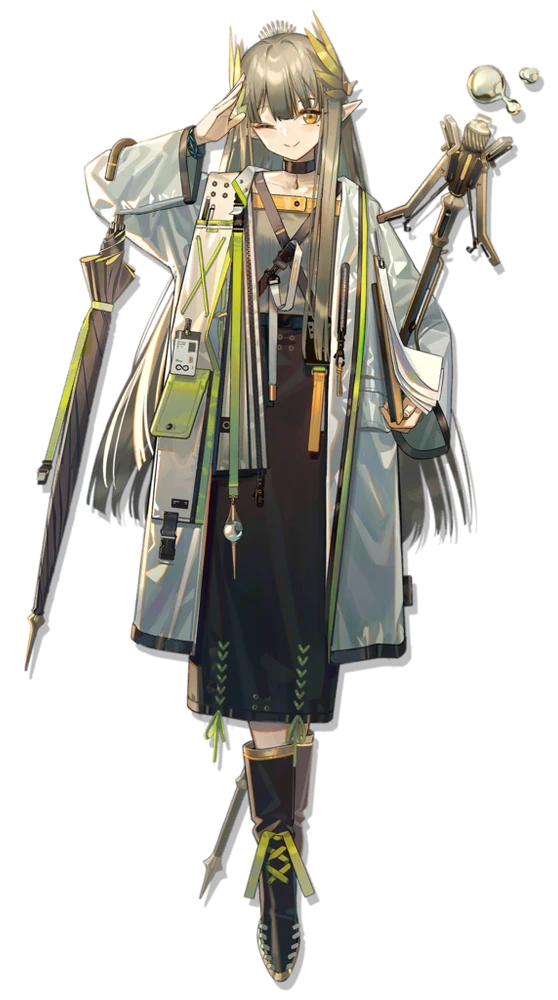
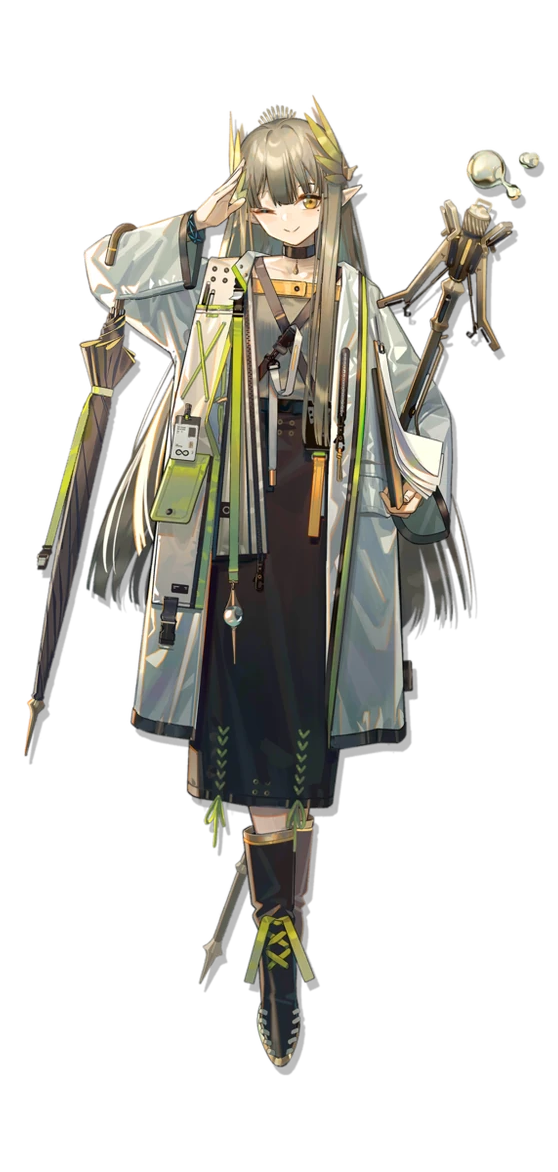
添加精英二立绘、背景图片。

Changed region(s): [[0.0305, 0.0, 0.9749, 0.992]]

diff --git a/src/pages/Home.vue b/src/pages/Home.vue
@@ -1,15 +1,44 @@
+<script>
+export default {
+    data() {
+        return {
+            elite1: true,
+        }
+    },
+    mounted() {
+        document.body.classList.add('body-no-margin')
+    },
+    unmounted() {
+        document.body.classList.remove('body-no-margin')
+    }
+}
+</script>
+
 <template>
+    <img class="background-img" src="/src/assets/bg/Bg_rhine.png">
     <div class="pic-container">
-        <img class="muelsyse-pic" src="../assets/muelsyse.png" draggable="false" alt="这是缪尔赛思。她很可爱，请给她钱。"
-            title="这是缪尔赛思。她很可爱，请给她钱。" @click="this.$router.push('/tools')">
+        <img class="muelsyse-pic" :class="{'elite1-pic': this.elite1}" :src="this.elite1 ? '/src/assets/muelsyse.png' : '/src/assets/muelsyse_2.png'"
+            draggable="false" alt="这是缪尔赛思。她很可爱，请给她钱。" title="这是缪尔赛思。她很可爱，请给她钱。" @click="this.$router.push('/tools')">
+    </div>
+    <div class="elite-switch-buttons">
+        <button @click="this.elite1 = true" :class="{ selected: this.elite1 }">精英零</button>
+        <button @click="this.elite1 = false" :class="{ selected: !this.elite1 }">精英二</button>
     </div>
 </template>
 
 <style scoped>
-.muelsyse-pic {
-    max-height: 90vh;
-    max-width: 90vw;
-    transition-duration: 0.5s;
+/* .bg-container {
+    position: absolute;
+    z-index: -1;
+    height: 100vh;
+    width: 100vw;
+} */
+.background-img {
+    position: absolute;
+    z-index: -1;
+    height: 100vh;
+    width: 100vw;
+    object-fit: cover;
 }
 
 .pic-container {
@@ -18,14 +47,48 @@
     align-items: center;
     height: 100vh;
     user-select: none;
+    overflow: hidden;
+}
+
+.muelsyse-pic {
+    max-height: 100vh;
+    max-width: 100vw;
+    transition-duration: 0.5s;
 }
 
 .muelsyse-pic:hover {
-    transform: scale(1.1);
+    --translate-distance: 0;
+    transform: scale(1.2) translateY(var(--translate-distance));
     cursor: pointer;
 }
 
-body {
-    margin: 0;
+.muelsyse-pic.elite1-pic:hover {
+    --translate-distance: 5vh;
+}
+
+.elite-switch-buttons {
+    position: absolute;
+    left: 0;
+    top: 0;
+    margin: 10px;
+}
+
+.elite-switch-buttons button {
+    background-color: rgba(0, 0, 0, 0.6);
+    color: white;
+    margin: 5px;
+    font-size: large;
+    border: 1px solid rgb(211, 211, 211);
+    border-radius: 2px;
+    padding: 0.5ex 1em;
+    transition: 0.2s
+}
+
+.elite-switch-buttons button:hover {
+    color: rgb(26, 194, 253);
+}
+
+button.selected{
+    color: rgb(26,194,253);
 }
 </style>

diff --git a/src/pages/Tools.vue b/src/pages/Tools.vue
@@ -64,7 +64,6 @@ h1 {
 }
 
 .link-cards button:hover {
-  box-shadow: 0px 8px 20px #F596AA;
-  cursor: pointer;
+  box-shadow: 0px 8px 20px #F596AA
 }
 </style>

diff --git a/src/style.css b/src/style.css
@@ -1,0 +1,7 @@
+.body-no-margin{
+    margin: 0;
+}
+
+button:hover {
+    cursor: pointer;
+}
